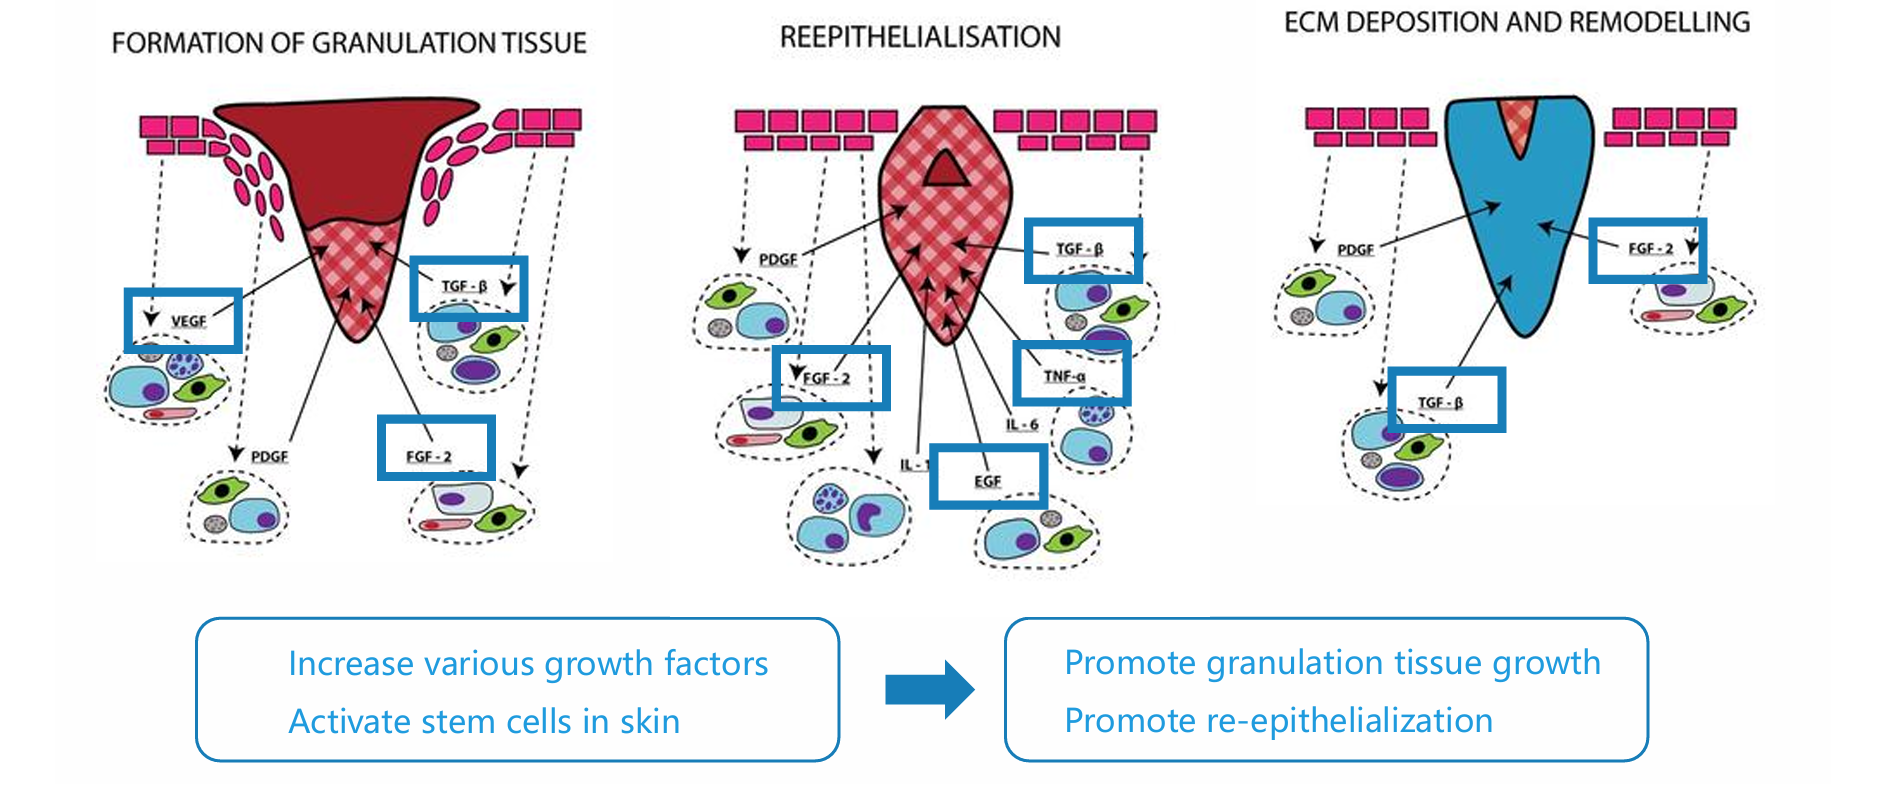
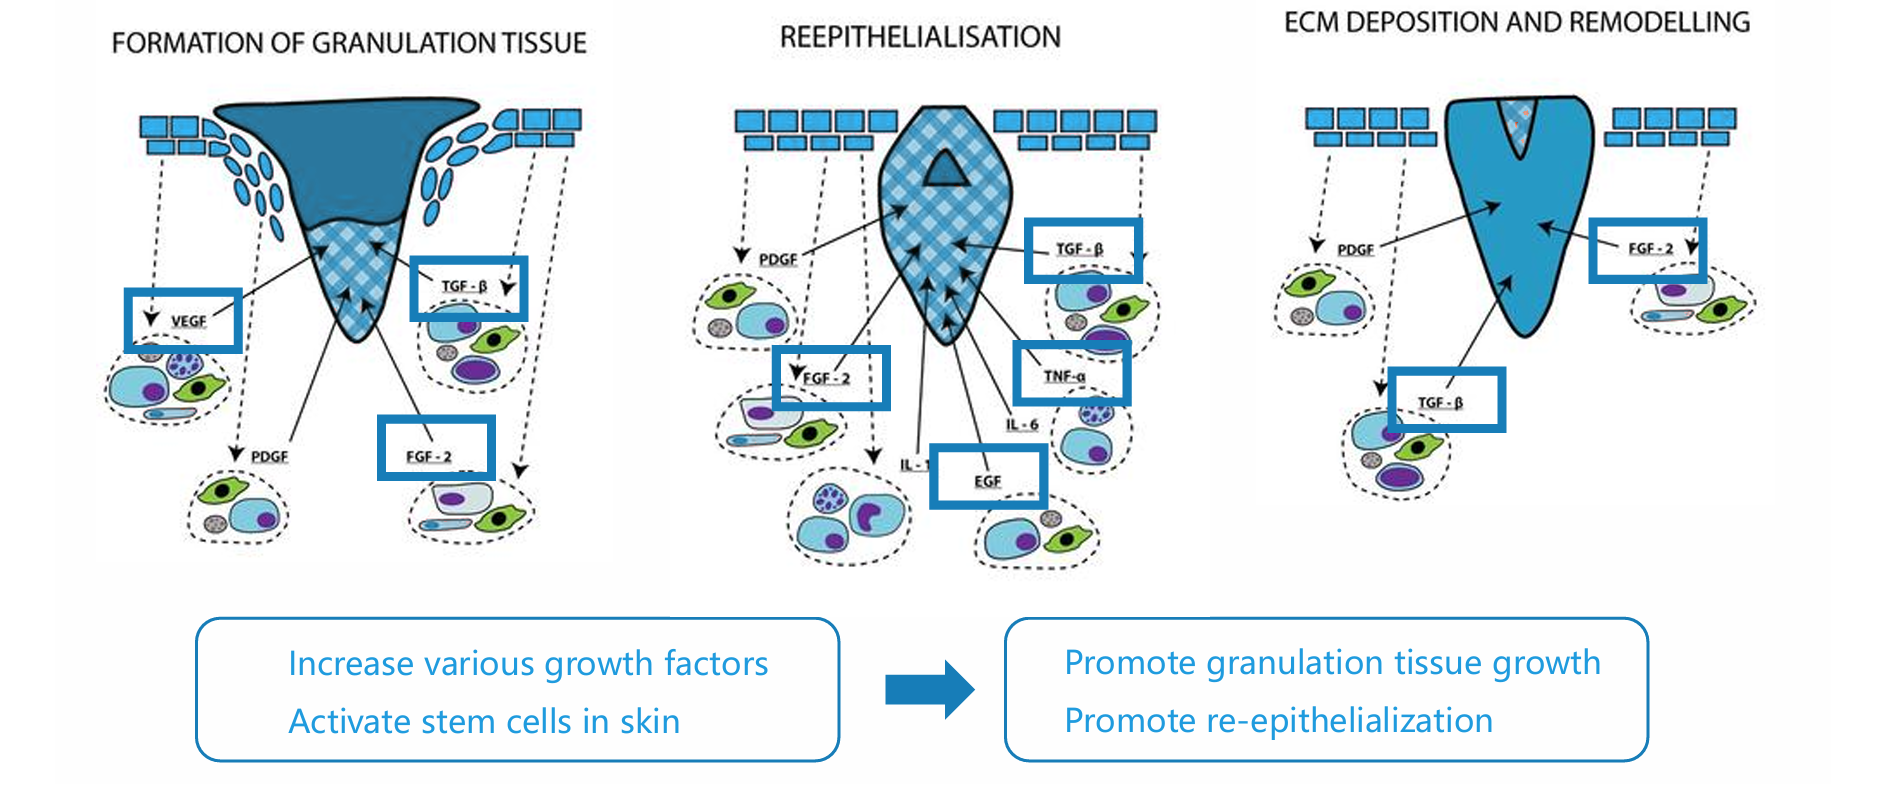
Technology: re-add K19 stem-cell figure below mechanism diagram with single intro line; recolor mechanism diagram to site teal palette (EN+ES)

diff --git a/tecnologia.html b/tecnologia.html
@@ -282,6 +282,10 @@
       <figure class="mia-fig fade-in">
         <img src="assets/technology/shifting-active-regeneration.png" alt="Tres fases de la regeneraci&oacute;n activa tras el tratamiento con MEBO: formaci&oacute;n de tejido de granulaci&oacute;n, reepitelizaci&oacute;n y dep&oacute;sito y remodelaci&oacute;n de la MEC, impulsadas por el aumento de factores de crecimiento y la activaci&oacute;n de c&eacute;lulas madre epid&eacute;rmicas" loading="lazy">
       </figure>
+      <figure class="mia-fig fade-in">
+        <p class="k19-lead">Las c&eacute;lulas madre epid&eacute;rmicas que contienen queratina pueden proliferar y diferenciarse en tejidos cut&aacute;neos de todas las capas.</p>
+        <img src="assets/technology/k19-stem-cells.png" alt="Cambio de las c&eacute;lulas madre epid&eacute;rmicas con Queratina 19 en la herida por quemadura durante el tratamiento con MEBO" loading="lazy">
+      </figure>
     </div>
   </section>
 

diff --git a/en/technology.html b/en/technology.html
@@ -271,6 +271,10 @@
       <figure class="mia-fig fade-in">
         <img src="../assets/technology/shifting-active-regeneration.png" alt="Three phases of active regeneration after MEBO treatment: formation of granulation tissue, reepithelialisation, and ECM deposition and remodelling, driven by increased growth factors and activation of epidermal stem cells" loading="lazy">
       </figure>
+      <figure class="mia-fig fade-in">
+        <p class="k19-lead">Epidermal stem cells containing keratin can proliferate and differentiate into skin tissues of all layers.</p>
+        <img src="../assets/technology/k19-stem-cells.png" alt="Change of epidermal stem cells containing Keratin 19 in burn wound during MEBO treatment" loading="lazy">
+      </figure>
     </div>
   </section>
 

diff --git a/css/style.css b/css/style.css
@@ -5375,6 +5375,13 @@ body.no-js .fade-in {
   padding: var(--space-md);
 }
 .mia-fig img { display: block; width: 100%; height: auto; border-radius: var(--radius-sm); }
+.k19-lead {
+  margin: 0 0 var(--space-md);
+  text-align: center;
+  font-size: 0.95rem;
+  line-height: 1.7;
+  color: var(--color-text-light);
+}
 
 /* ---------- Strengths: 2x2 grid ---------- */
 .str-grid { grid-template-columns: repeat(2, 1fr) !important; max-width: 980px; margin-left: auto; margin-right: auto; }
